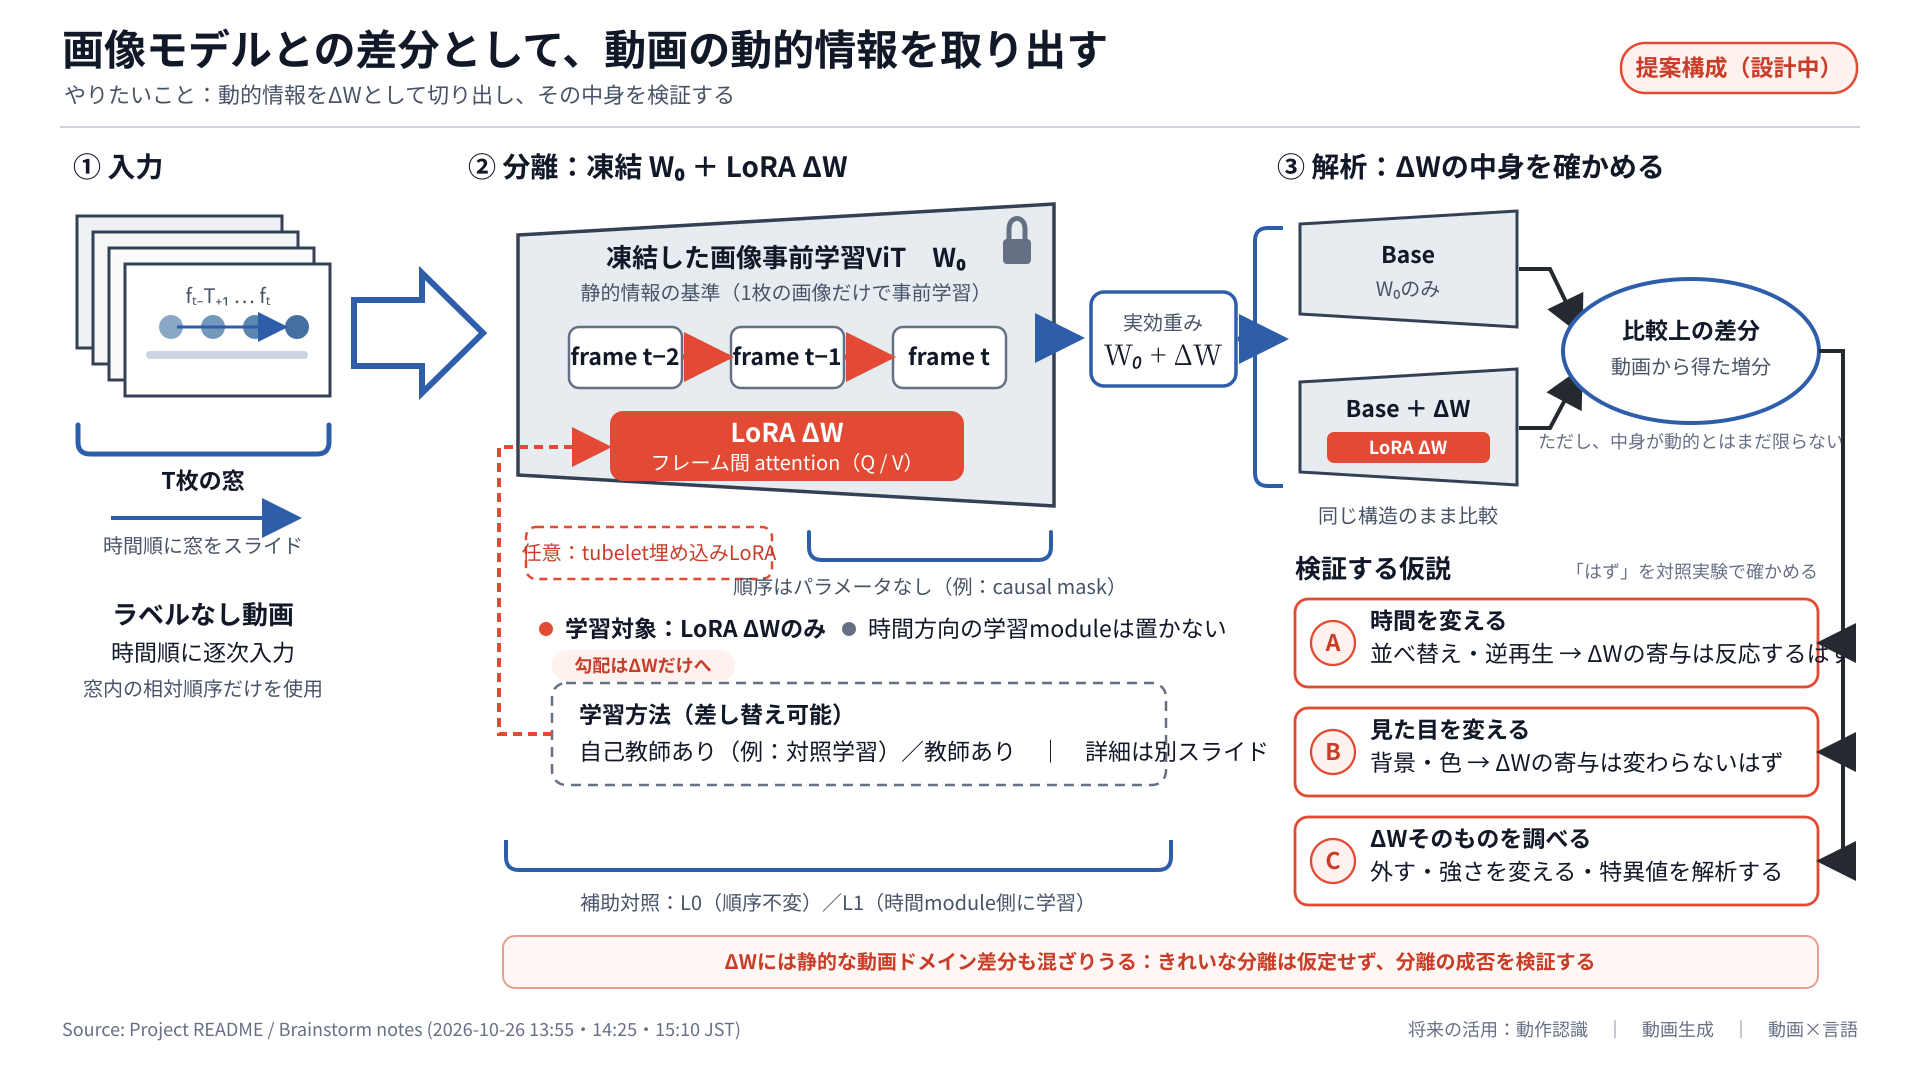
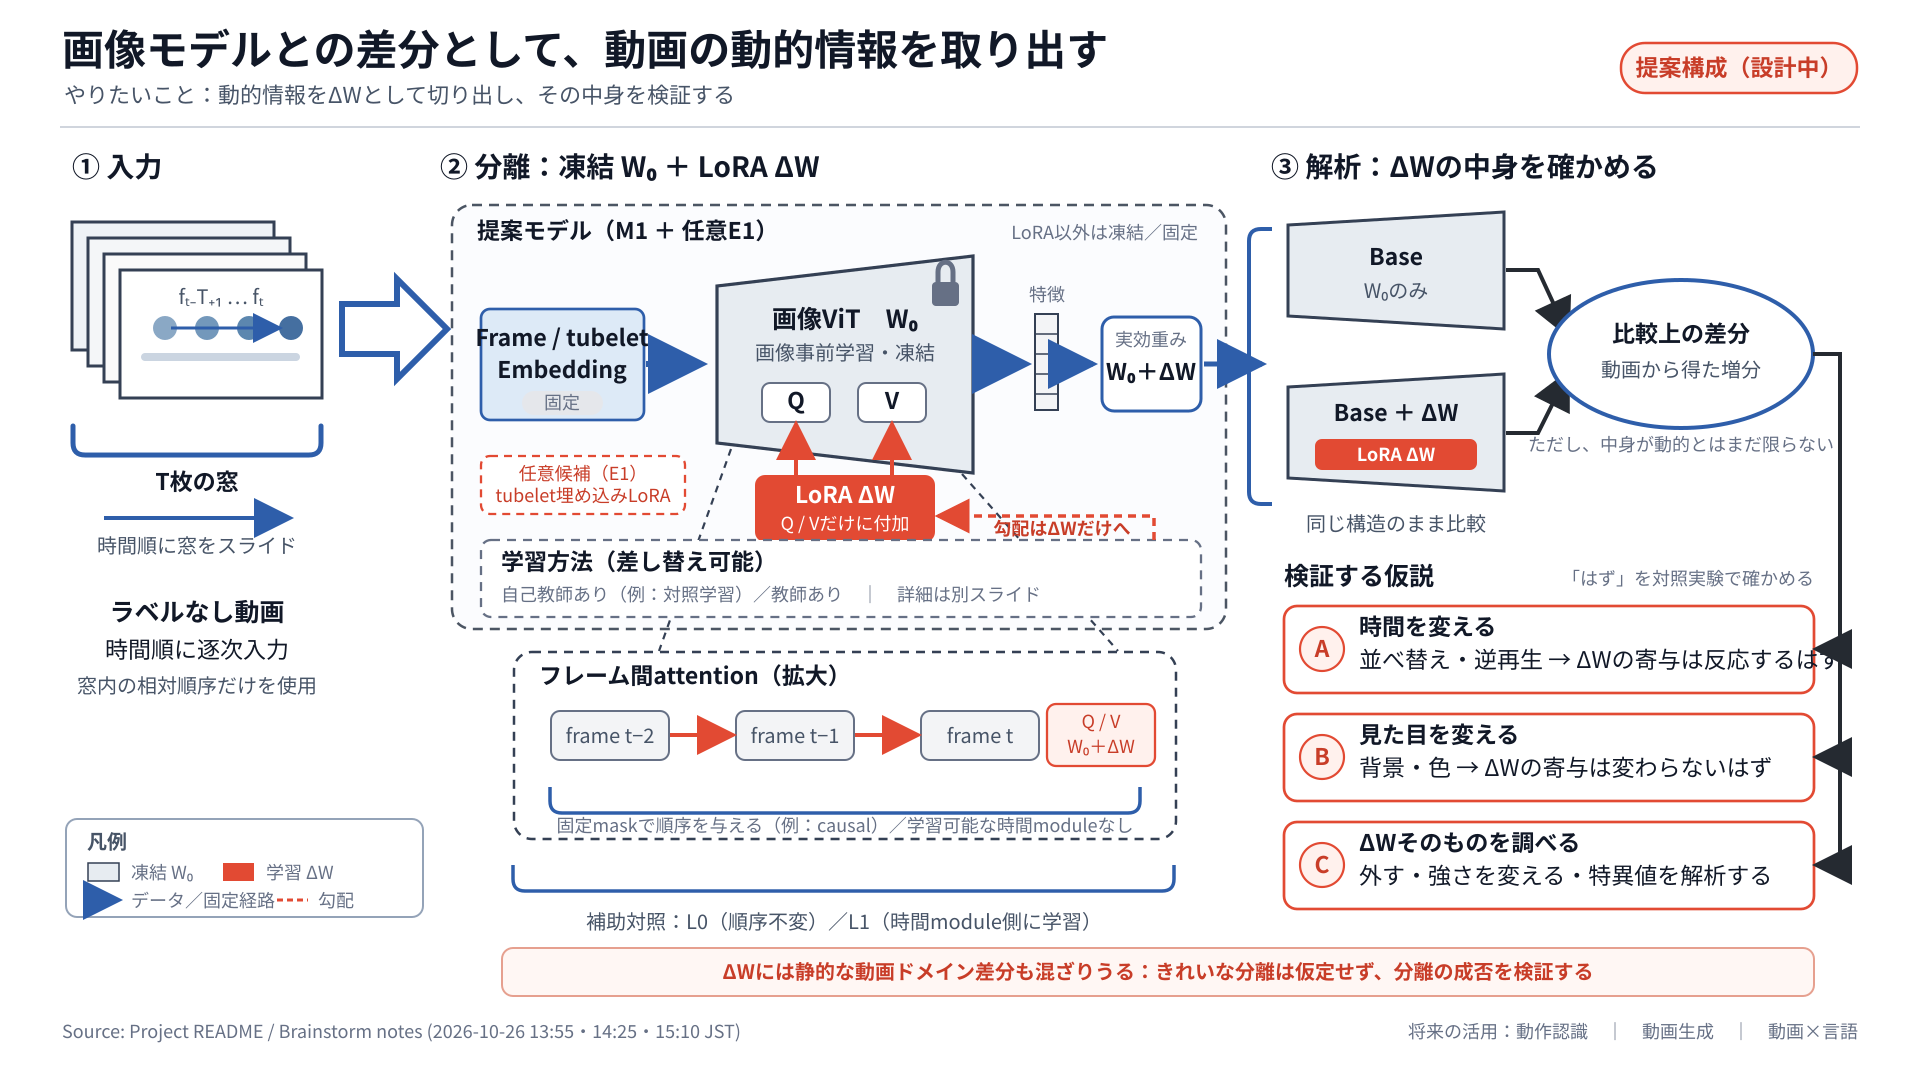
docs(figures): refine method overview architecture

diff --git a/.research/lab/projects/sequential-video-lora-analysis/materials/figures/2026-10-26-midterm-method-overview/manifest.md b/.research/lab/projects/sequential-video-lora-analysis/materials/figures/2026-10-26-midterm-method-overview/manifest.md
@@ -10,7 +10,7 @@
   - [中間発表の背景・課題・目的](../../../../../../secretary/notes/brainstorm/2026-10-26-midterm-background-issue-purpose.md)の追記「2026-10-26 15:10 JST」
   - [画像ViT＝静的・LoRA＝動的という仮説の妥当性と新規性](../../../../../../secretary/notes/brainstorm/2026-10-26-image-static-lora-dynamic-hypothesis-validity-novelty.md)の追記「2026-10-26 13:55 JST」「2026-10-26 14:25 JST」
 - Source data: なし。上記Markdownにある研究目的、設計基準1〜4、採用候補M1/E1/M2、対照L0/L1、検証案を説明用に再構成した概念図。
-- Style reference: ユーザーがチャットに添付した模式図。積層入力、中空の太い矢印、台形のencoder、分岐線、括弧という視覚表現だけを参照し、内容・数式・配置は流用していない。参考画像自体はResearch Workspaceへ保存していない。
+- Style reference: ユーザーがチャットに添付した複数の模式図。積層入力、中空の太い矢印、モジュール別の色分け、破線のモデル境界、分岐線、括弧、拡大図、凡例という視覚表現だけを参照し、内容・数式・配置は流用していない。参考画像自体はResearch Workspaceへ保存していない。
 - 作成方法：編集可能なSVGを新規作成し、Inkscapeで1920×1080 pxのPNGへ書き出した。
 
 ## Figures
@@ -24,7 +24,7 @@
 - サイズ：1920×1080 px（16:9）。
 - フォント：`Noto Sans CJK JP`を優先。本文相当は原則23 px以上、注記・sourceは18〜20 px。
 - 色：灰色を凍結Base・静的な基準、朱色 `#E24A33` をLoRA ΔW・勾配、青 `#2E5EAA` を処理方向・括弧に使用。
-- 構成：説明カードを並べず、積層フレーム → 中空矢印 → 台形モデル → 同形モデルの比較 → 仮説検証の分岐、という模式図として読む。
+- 構成：説明カードを並べず、積層フレーム → 破線枠内の `Embedding → 凍結ViT → 特徴` → 同形モデルの比較 → 仮説検証の分岐、という模式図として読む。LoRAのQ/V注入とフレーム間経路は拡大図で示す。
 - 図の主役は「動的情報の分離・解析」。学習方法は点線枠の差し替え可能部品として1箇所だけ示した。
 - M1に相当するフレーム間attention（Q/V）を中心に置き、E1に相当するtubelet埋め込みLoRAは任意候補として小さく示した。M2はフレーム間経路の拡張候補だが、図の過密化を避けて個別名称は載せていない。
 - L0/L1は主比較とは分け、解析段の補助対照として注記した。
